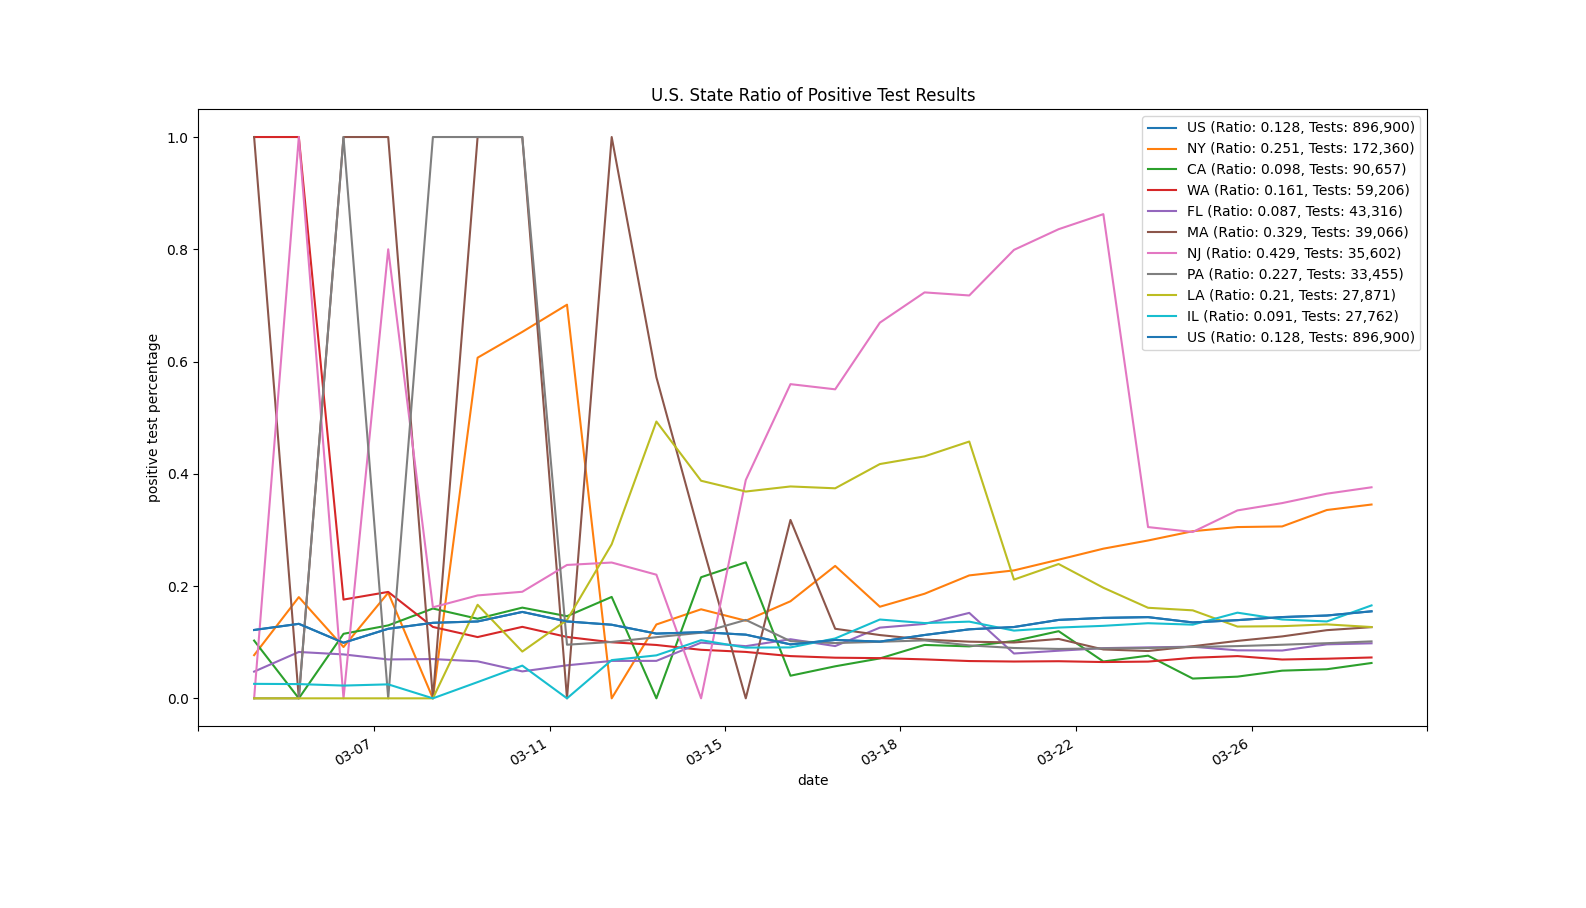
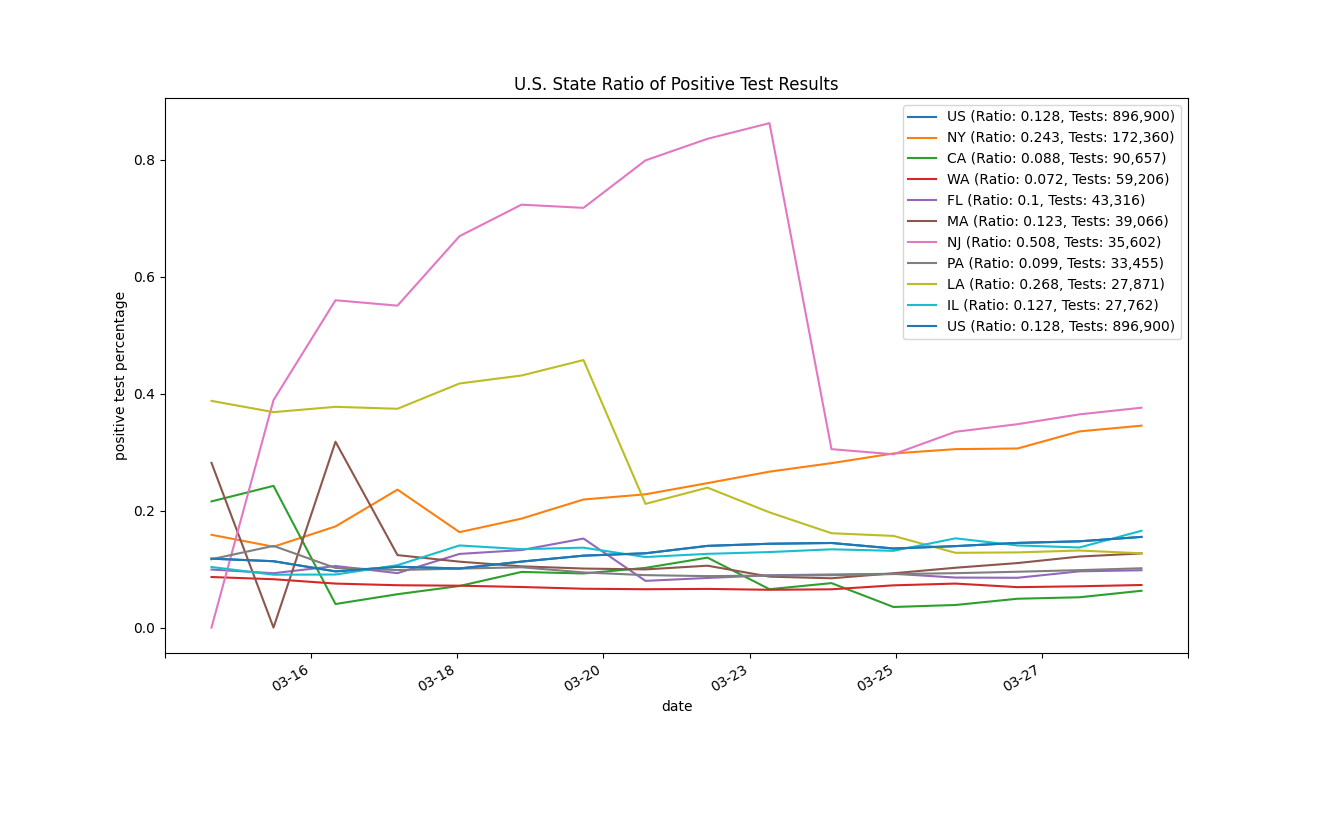
updated graphs and added log

diff --git a/analyze-us.py b/analyze-us.py
@@ -173,9 +173,7 @@ plt.show()
 
 
 
-# Testing by U.S. State
-fig, ax = plt.subplots()
-
+# Calculates Testing by U.S. State
 top_testing = {}
 for state in new_tests:
     top_testing[state] = sum(new_tests[state])
@@ -196,6 +194,28 @@ for i in range(len(new_tests['US'])):
     dates['remaining'].append(dates['US'][i])
 state_test_totals['remaining'] = sum(new_tests['remaining'])
 
+
+# Graphs Testing by U.S. State
+fig, ax = plt.subplots()
+# top[1:] excludes US total
+for state in top[1:] + ['remaining']:
+    ax.plot(dates[state], new_tests[state],
+            label=state+' tests ('+f'{state_test_totals[state]:,}'+')')
+
+N = 8
+xmin, xmax = ax.get_xlim()
+ax.set_xticks(np.round(np.linspace(xmin, xmax, N), 2))
+
+plt.title("Testing by U.S. State")
+plt.xlabel("date")
+plt.ylabel("count")
+plt.legend()
+fig.autofmt_xdate()
+plt.show()
+
+# Graphs Testing by U.S. State, LOG
+fig, ax = plt.subplots()
+ax.set_yscale('log')
 # top[1:] excludes US total
 for state in top[1:] + ['remaining']:
     ax.plot(dates[state], new_tests[state],
@@ -215,9 +235,13 @@ plt.show()
 
 # Testing ratio graphs
 fig, ax = plt.subplots()
+
+# IGNORE FIRST 10 DAYS (not enough testing)
+start = 10
 for state in top + ['US']:
-    avg_ratio = round(sum(positive_ratio[state]) / len(positive_ratio[state]), 3)
-    ax.plot(dates[state], positive_ratio[state],
+    avg_ratio = round(sum(positive_ratio[state][start:])
+                      / len(positive_ratio[state][start:]), 3)
+    ax.plot(dates[state][start:], positive_ratio[state][start:],
             label=state+' (Ratio: '+f'{avg_ratio}' +
             ', Tests: ' + f'{state_test_totals[state]:,}' +')')
 N = 8
